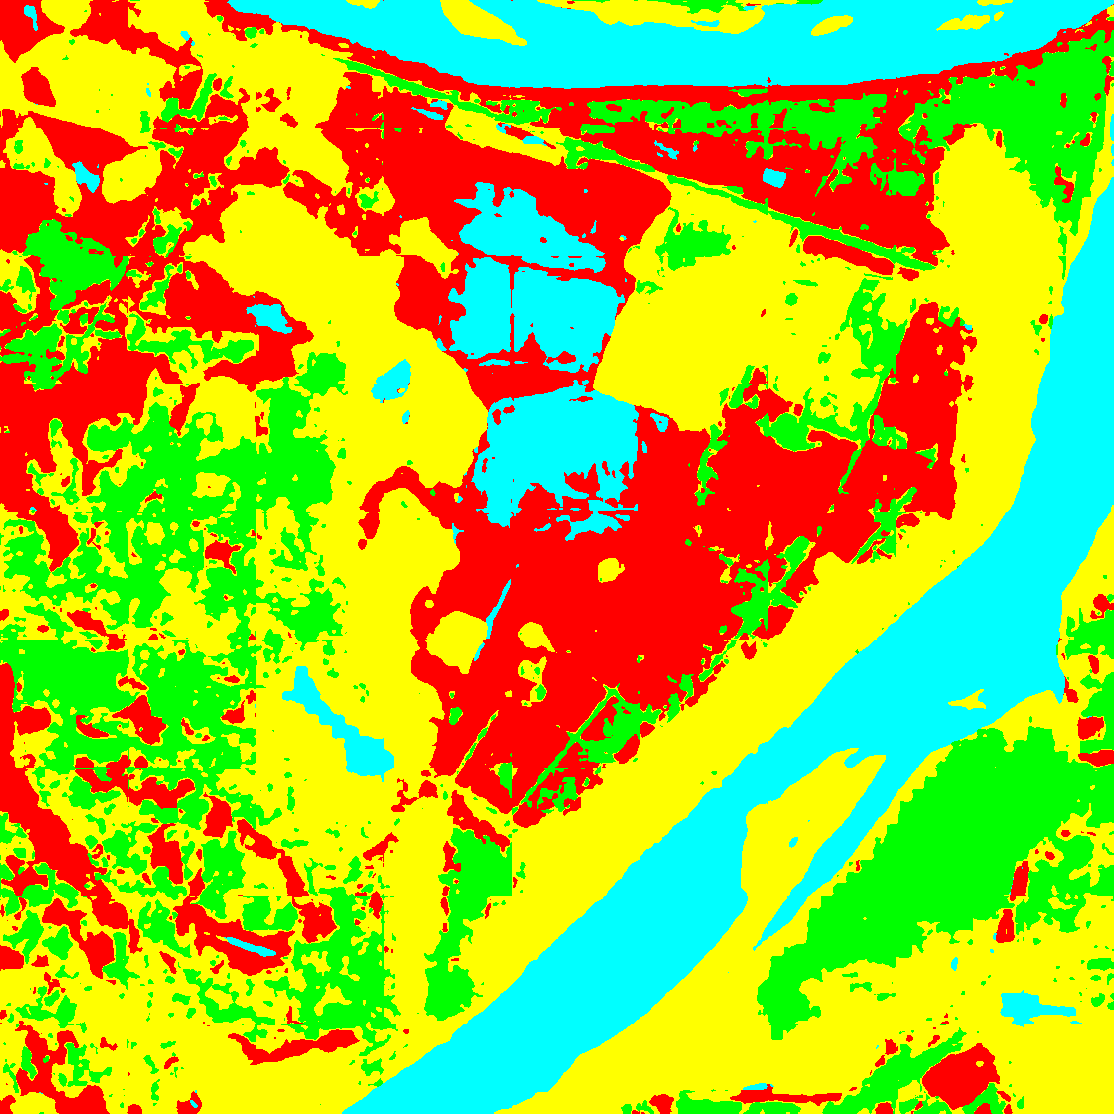
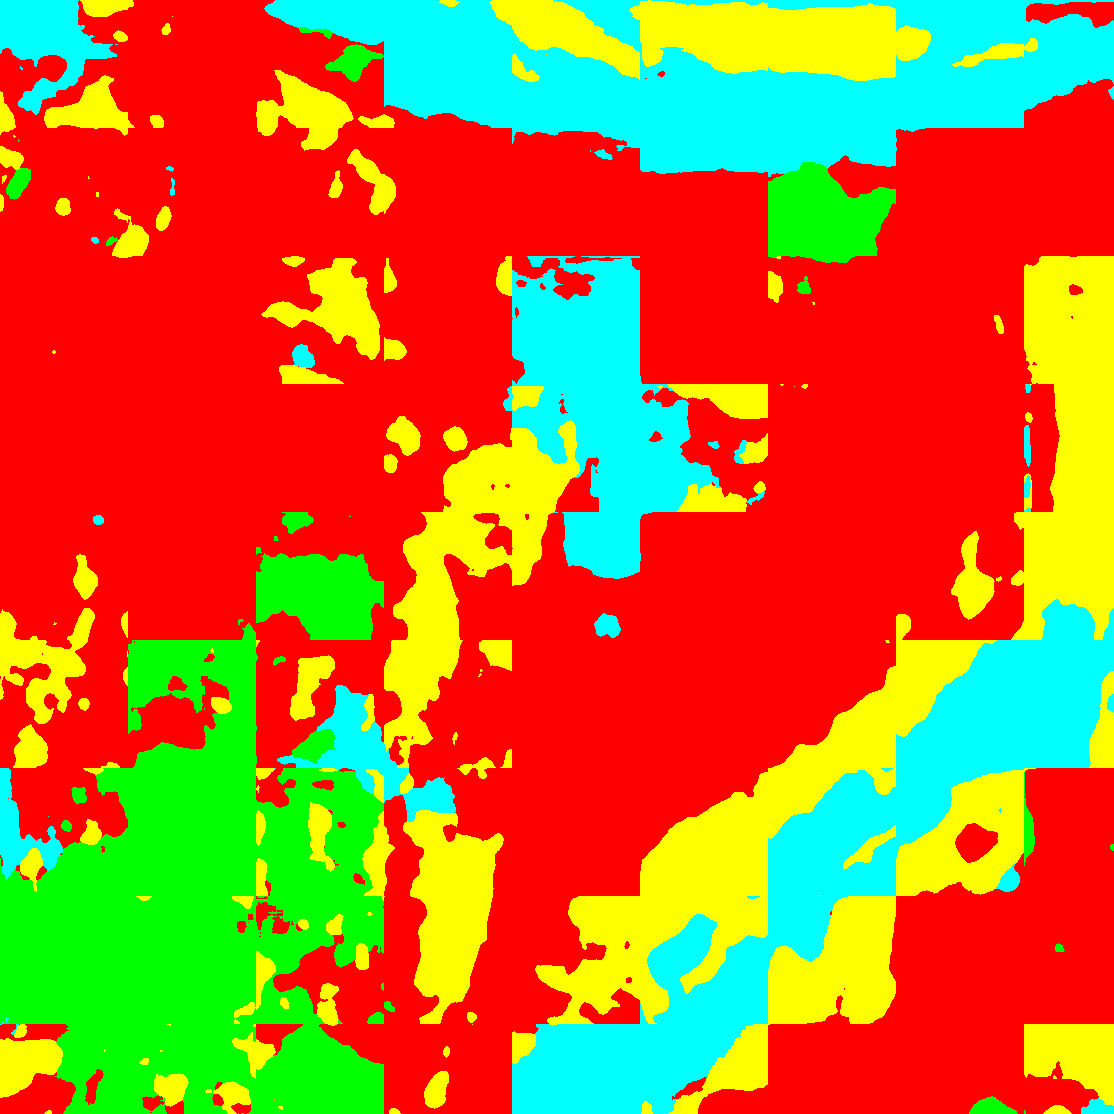
auto push from cron job

diff --git a/to_tensor.py b/to_tensor.py
@@ -1,0 +1,45 @@
+import os
+import torch
+import rasterio
+import numpy as np
+from pathlib import Path
+import argparse
+
+def tif_to_tensor(tif_path, output_path=None):
+    """
+    Convert a TIF image to a PyTorch tensor and save it.
+
+    Args:
+        tif_path (str): Path to the input TIF file
+        output_path (str, optional): Path to save the tensor. If None, will use the same name with .pt extension.
+
+    Returns:
+        torch.Tensor: The loaded tensor
+    """
+    # Create output path if not provided
+    if output_path is None:
+        output_path = str(Path(tif_path).with_suffix('.pt'))
+
+    # Open the TIF file
+    with rasterio.open(tif_path) as src:
+        # Read the image data
+        img = src.read()  # This returns a 3D array [bands, height, width]
+
+        # Convert to float32 if needed and normalize if desired
+        img = img.astype(np.float32)
+
+        # Convert to PyTorch tensor
+        tensor = torch.from_numpy(img)
+
+    # Save the tensor
+    torch.save(tensor, output_path)
+
+    print(f"Converted {tif_path} to tensor and saved at {output_path}")
+    return tensor
+
+
+if __name__ == "__main__":
+    tif_path = "dataset/sentinel_hr_lr_dataset/anh_25km_sat.tif"
+    output_path = "dataset/sentinel_hr_lr_dataset/anh_25km_sat.pt"
+
+    tif_to_tensor(tif_path)

diff --git a/utils/infer_utils.py b/utils/infer_utils.py
@@ -2,6 +2,16 @@ import numpy as np
 import torch
 from utils.image_utils import class_to_rgb
 
+CLASS_TO_RGB = {
+    "Unidentifiable": (0, 0, 0),
+    "Forest": (0, 255, 0),
+    "Rice field": (255, 0, 0),
+    "Water": (0, 255, 255),
+    "Residential": (255, 255, 0),
+}
+
+classes = list(CLASS_TO_RGB.keys())
+
 def infer_patches(model, device, org_shape, image: np.ndarray, patch_size: int = 128, n_classes=5):
     stride = patch_size // 2  # 50% overlap between patches
     org_size = org_shape[:2]
@@ -29,8 +39,19 @@ def infer_patches(model, device, org_shape, image: np.ndarray, patch_size: int =
                 patch = torch.from_numpy(patch).permute(0, 3, 1, 2).float().to(device)
 
                 # Model inference
+                # Model inference
                 output = model(patch)
-                output = torch.softmax(output, dim=1).cpu().numpy()[0]  # Convert to probabilities
+
+                # Handle different output formats based on model type
+                if isinstance(output, tuple):
+                    # For models that return multiple outputs like (sr_image, segmentation_mask)
+                    # Assume the segmentation mask is the second item in the tuple
+                    seg_output = output[1]
+                else:
+                    # For models that return just the segmentation mask
+                    seg_output = output
+
+                output = torch.softmax(seg_output, dim=1).cpu().numpy()[0]  # Convert to probabilities
 
                 # Remove padding from predictions
                 output = output[:, :bottom - top, :right - left]
@@ -42,6 +63,6 @@ def infer_patches(model, device, org_shape, image: np.ndarray, patch_size: int =
     # Normalize and convert to final class labels
     infer_image /= np.maximum(count_map, 1)  # Avoid division by zero
     final_output = np.argmax(infer_image, axis=-1)  # Get class labels
-    final_output = class_to_rgb(final_output.astype(np.uint8))
+    final_output = class_to_rgb(final_output.astype(np.uint8), CLASS_TO_RGB, classes)
 
     return final_output

diff --git a/infer.py b/infer.py
@@ -5,6 +5,7 @@ from utils.image_utils import open_tif_image
 from utils.infer_utils import infer_patches
 
 from model.ViT.model import UNet
+from model.Foundation.model import FoundationModel
 
 from datetime import datetime
 
@@ -47,6 +48,7 @@ if __name__ == "__main__":
         output_folder = args.output
         pretrained_path = args.pretrained
         patch_size = args.patch_size
+        model_name = args.model
 
         assert os.path.exists(input_path), f"Input path {input_path} does not exist"
         assert os.path.exists(pretrained_path), f"Pretrained path {pretrained_path} does not exist"
@@ -59,8 +61,23 @@ if __name__ == "__main__":
         # model.load_state_dict(checkpoint)
         # model = model.eval()
 
-        # Load the whole model
-        model = torch.load(pretrained_path, map_location=device)
+        # Load the model
+        if model_name == "UNet":
+            model = UNet(n_classes=n_classes, n_channels=13).to(device)
+        elif model_name == "FoundationModel":
+            model = FoundationModel(n_classes=n_classes, n_channels=13, upscale_factor=2).to(device)
+        else:
+            raise ValueError(f"Model {model_name} is not supported")
+
+        # Load the state dictionary into the model
+        checkpoint = torch.load(pretrained_path, map_location=device)
+        if isinstance(checkpoint, dict):
+            # If it's a state dictionary
+            model.load_state_dict(checkpoint)
+        else:
+            # If it's a full model
+            model = checkpoint
+
         model = model.eval()
 
         start_time = time.time()  # Start timing

diff --git a/utils/parser.py b/utils/parser.py
@@ -54,4 +54,5 @@ def parse_infer_args():
     parser.add_argument("--output", type=str, help='output image path')
     parser.add_argument("--pretrained", type=str, help='pretrained model path')
     parser.add_argument("--patch_size", type=int, default=256, help='patch size')
+    parser.add_argument("--model", type=str, default='FoundationModel', help='model to use')
     return parser.parse_args()